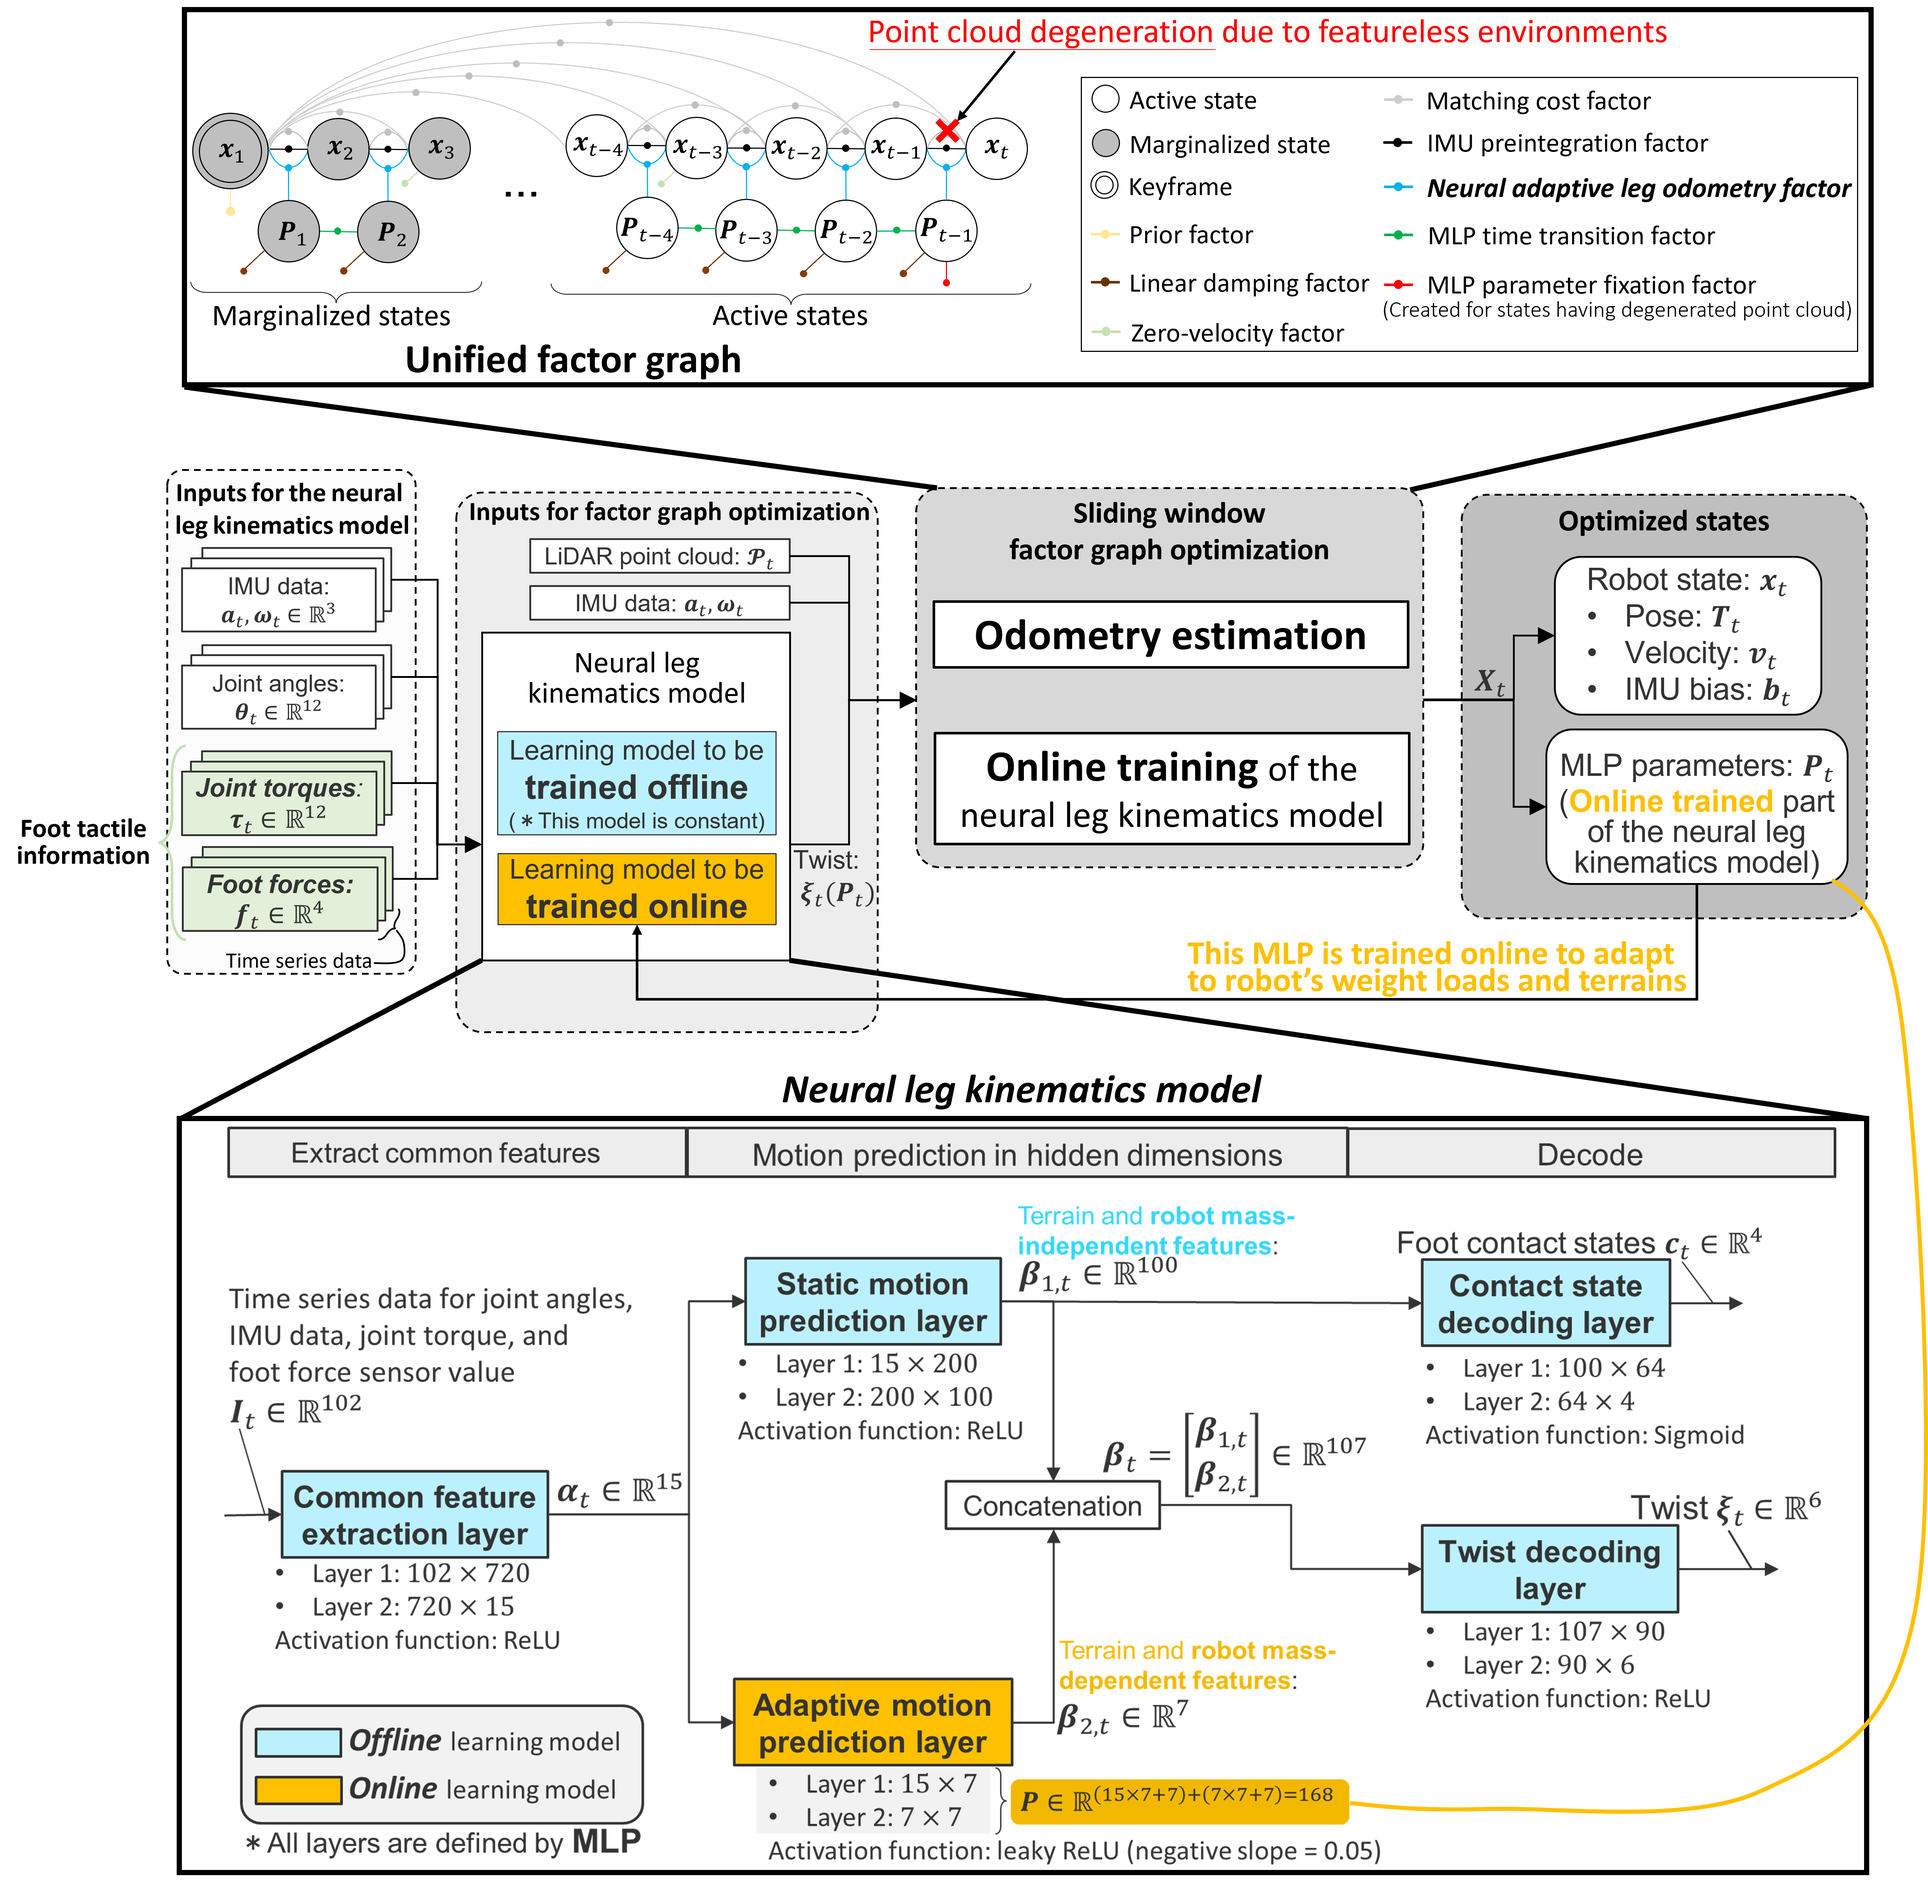
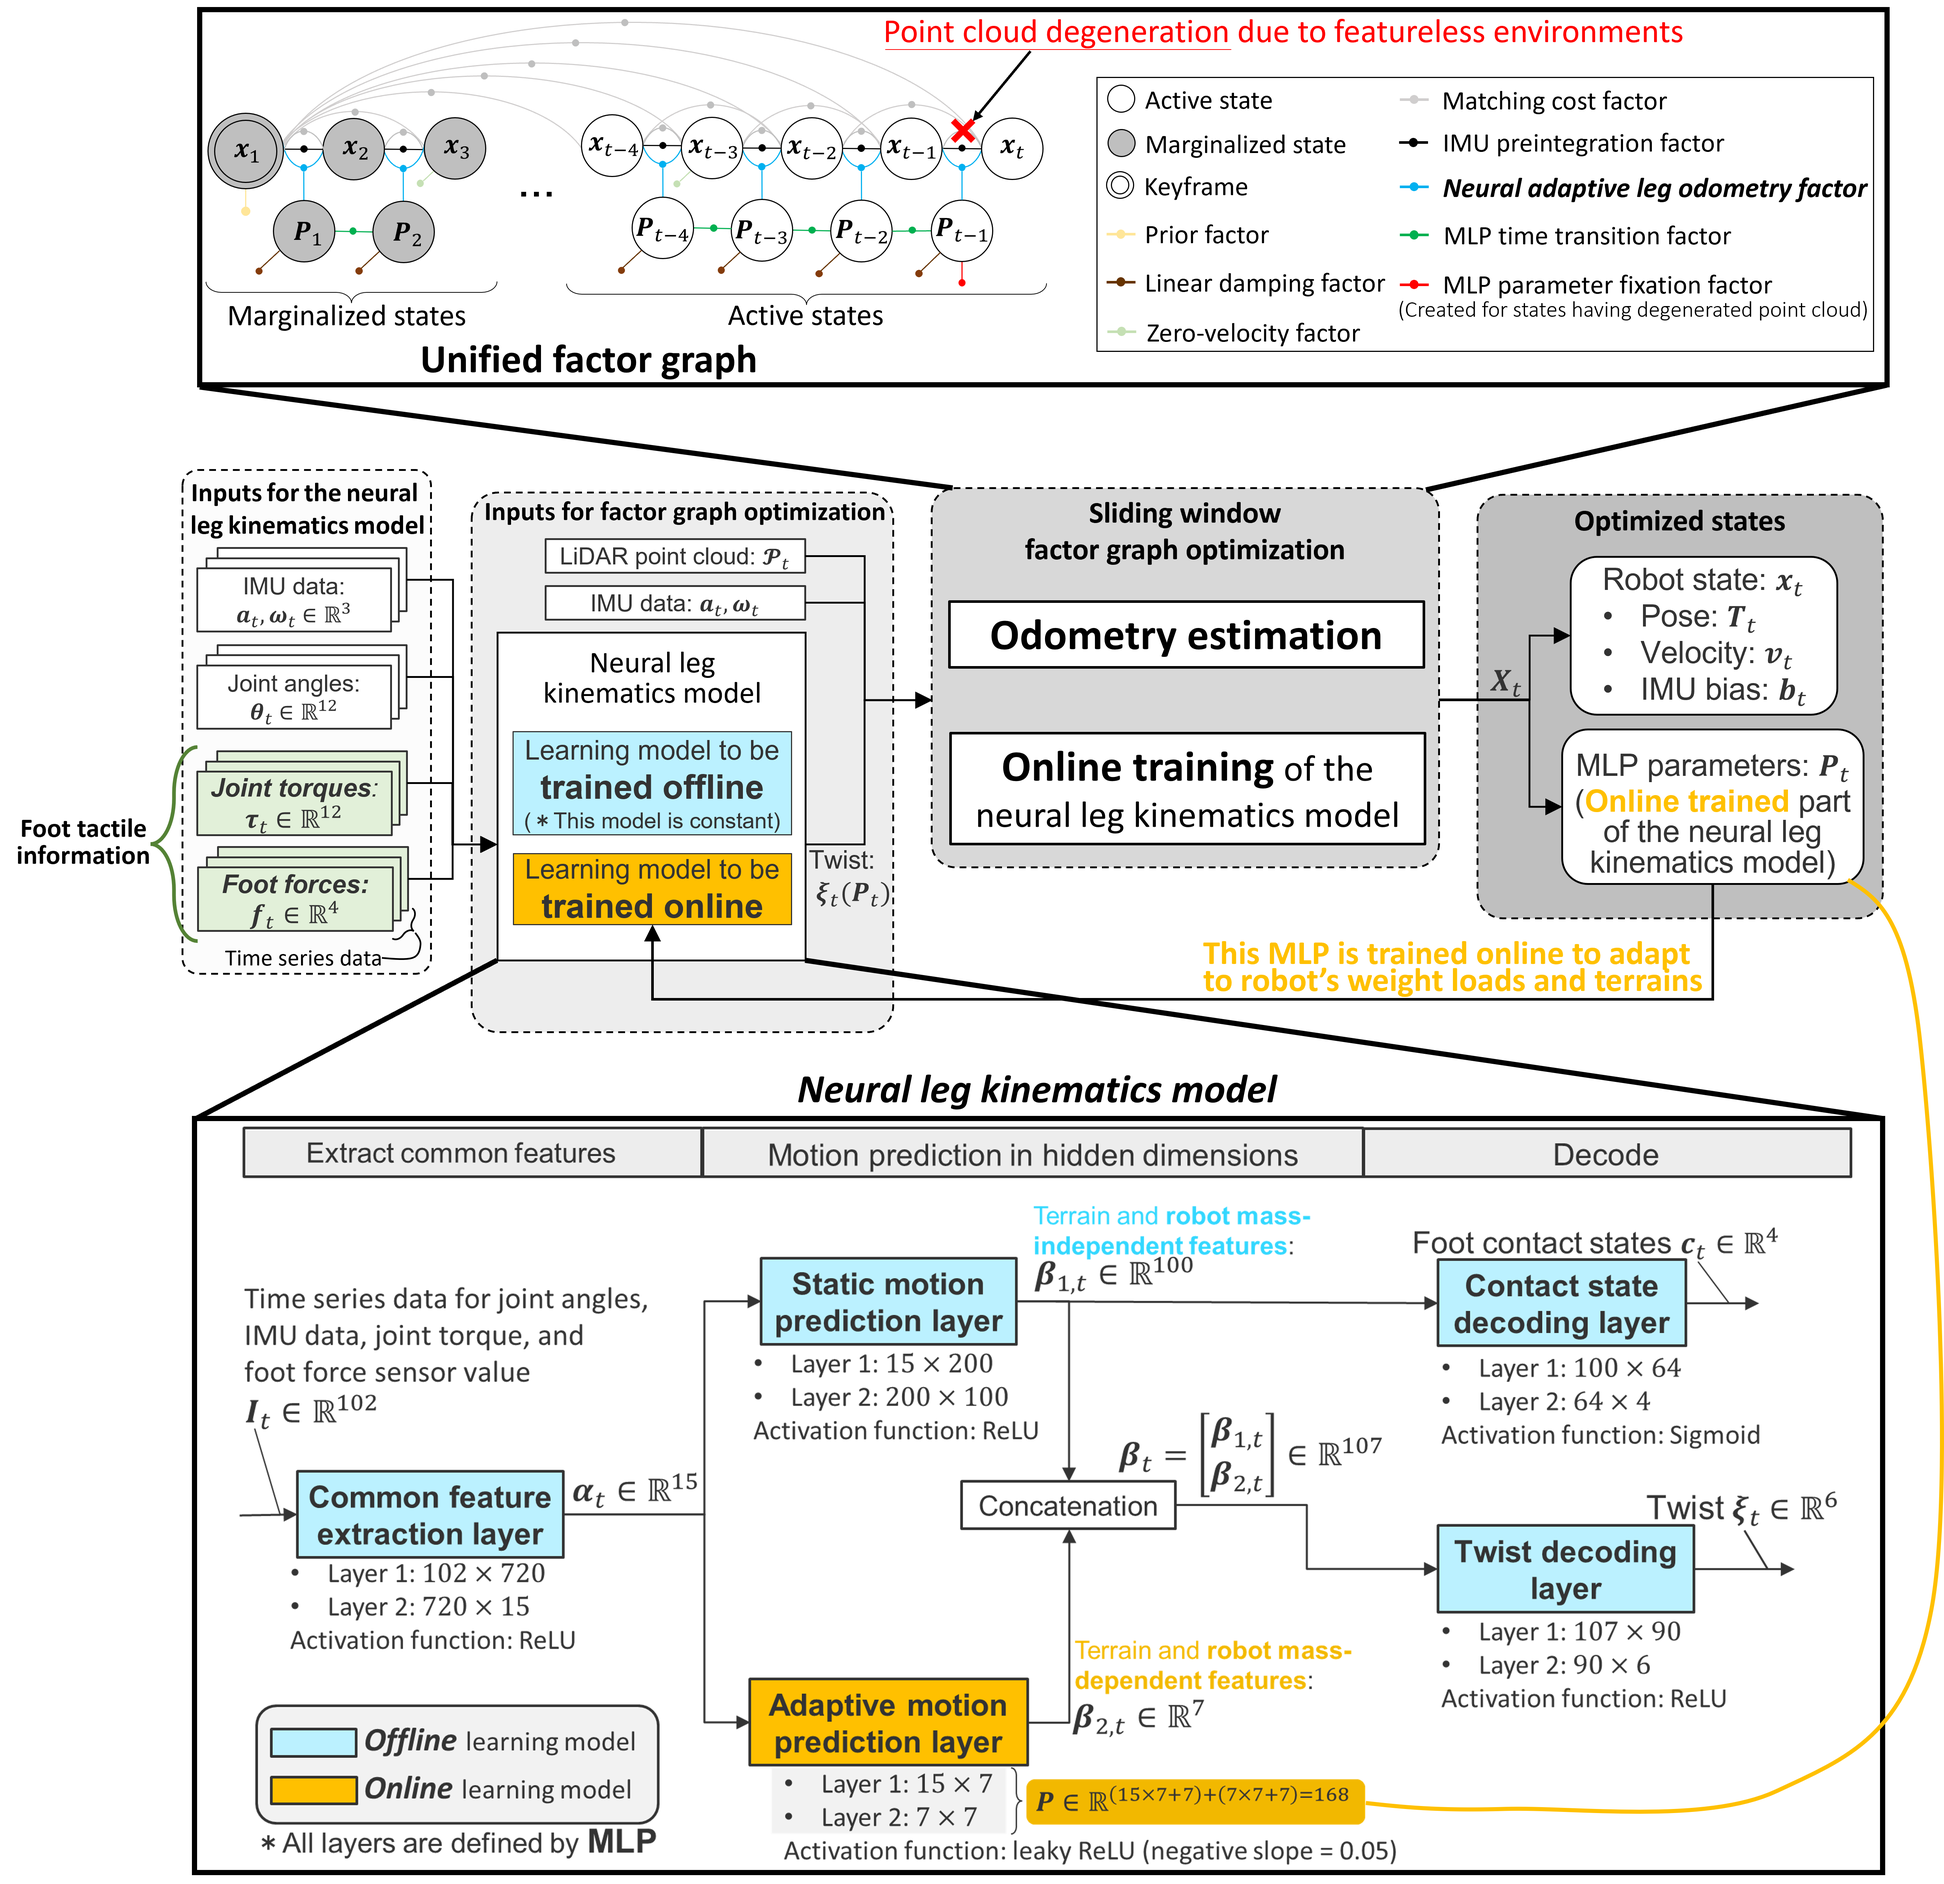
overview is updated

diff --git a/index.html b/index.html
@@ -57,8 +57,8 @@
     <p>To deal with these challenges, we presented an odometry estimation algorithm that fuses LiDAR-IMU constraints and online trainable leg kinematic constraints incorporating tactile information (<em><strong>neural leg kinematics model</strong></em>) in the proposed factor graph based on tightly coupled way. We propose the <em><strong>neural adaptive leg odometry factor</strong></em> to solve simultaneously solve odometry estimation and online training of the neural leg kinematics. This model's online training enhances its adaptability to changes in the weight loads of a legged robot and terrain conditions. This enables the effective utilization of foot tactile information (reaction forces) for motion prediction because foot reaction forces vary with both robot weight loads and terrain conditions. To balance accuracy and computational costs for training the network, we divided the model into two models trained online (<em><strong>online learning model</strong></em>) and offline (<em><strong>offline learning model</strong></em>).</p>
 
     <div class="container" style="text-align: center;">
-      <img src="static/images/overview.png" alt="Overview" style="display: block; margin: 20px auto; max-width: 80%; height: auto;">
-      <h3 class="subtitle" style="text-align: left; margin-top: 10px; margin-bottom: 20px; max-width: 80%; margin-left: auto; margin-right: auto;">
+      <img src="static/images/overview.png" alt="Overview" style="display: block; margin: 20px auto; max-width: 91%; height: auto;">
+      <h3 class="subtitle" style="text-align: left; margin-top: 10px; margin-bottom: 20px; max-width: 91%; margin-left: auto; margin-right: auto;">
         Overview of the proposed method, which simultaneously solves <em><strong>odometry estimation</strong></em> and <em><strong>online training of the neural leg kinematics model</strong></em> on a unified factor graph.
       </h3>
     </div>
